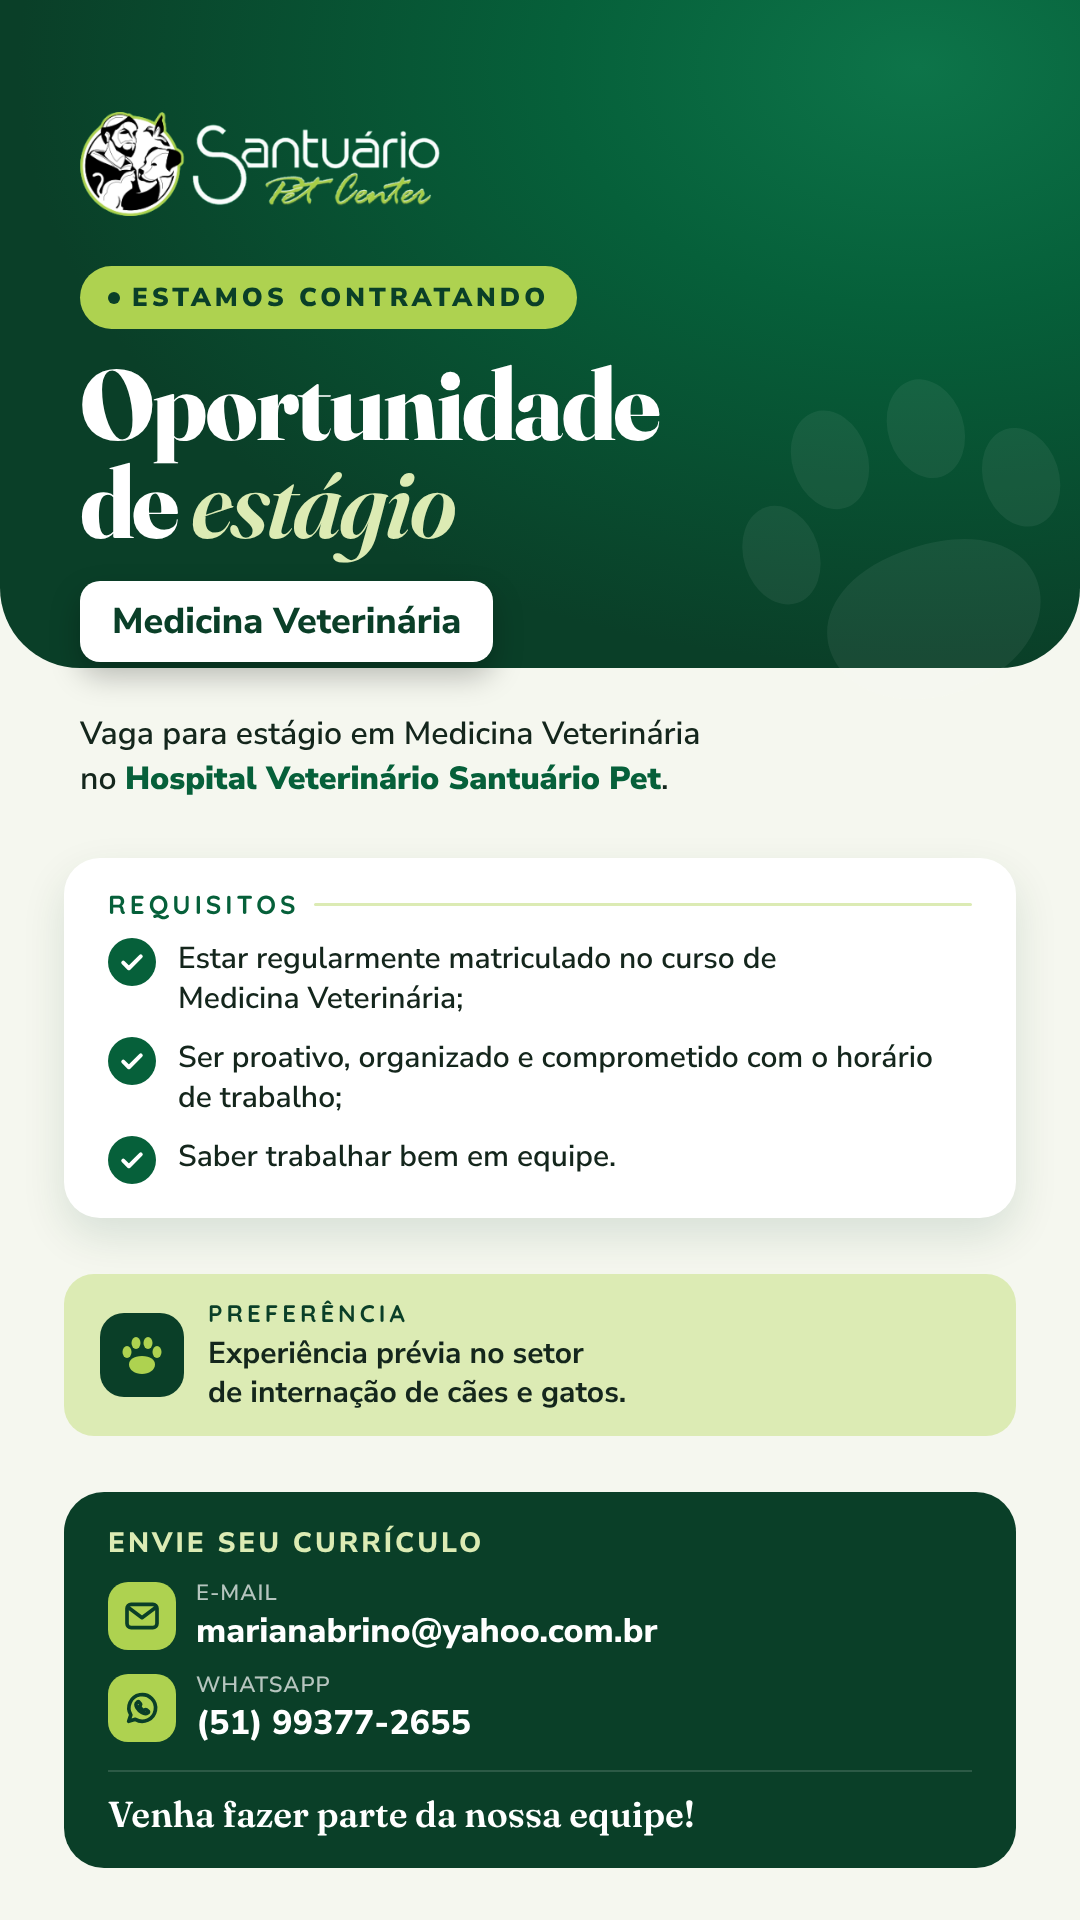
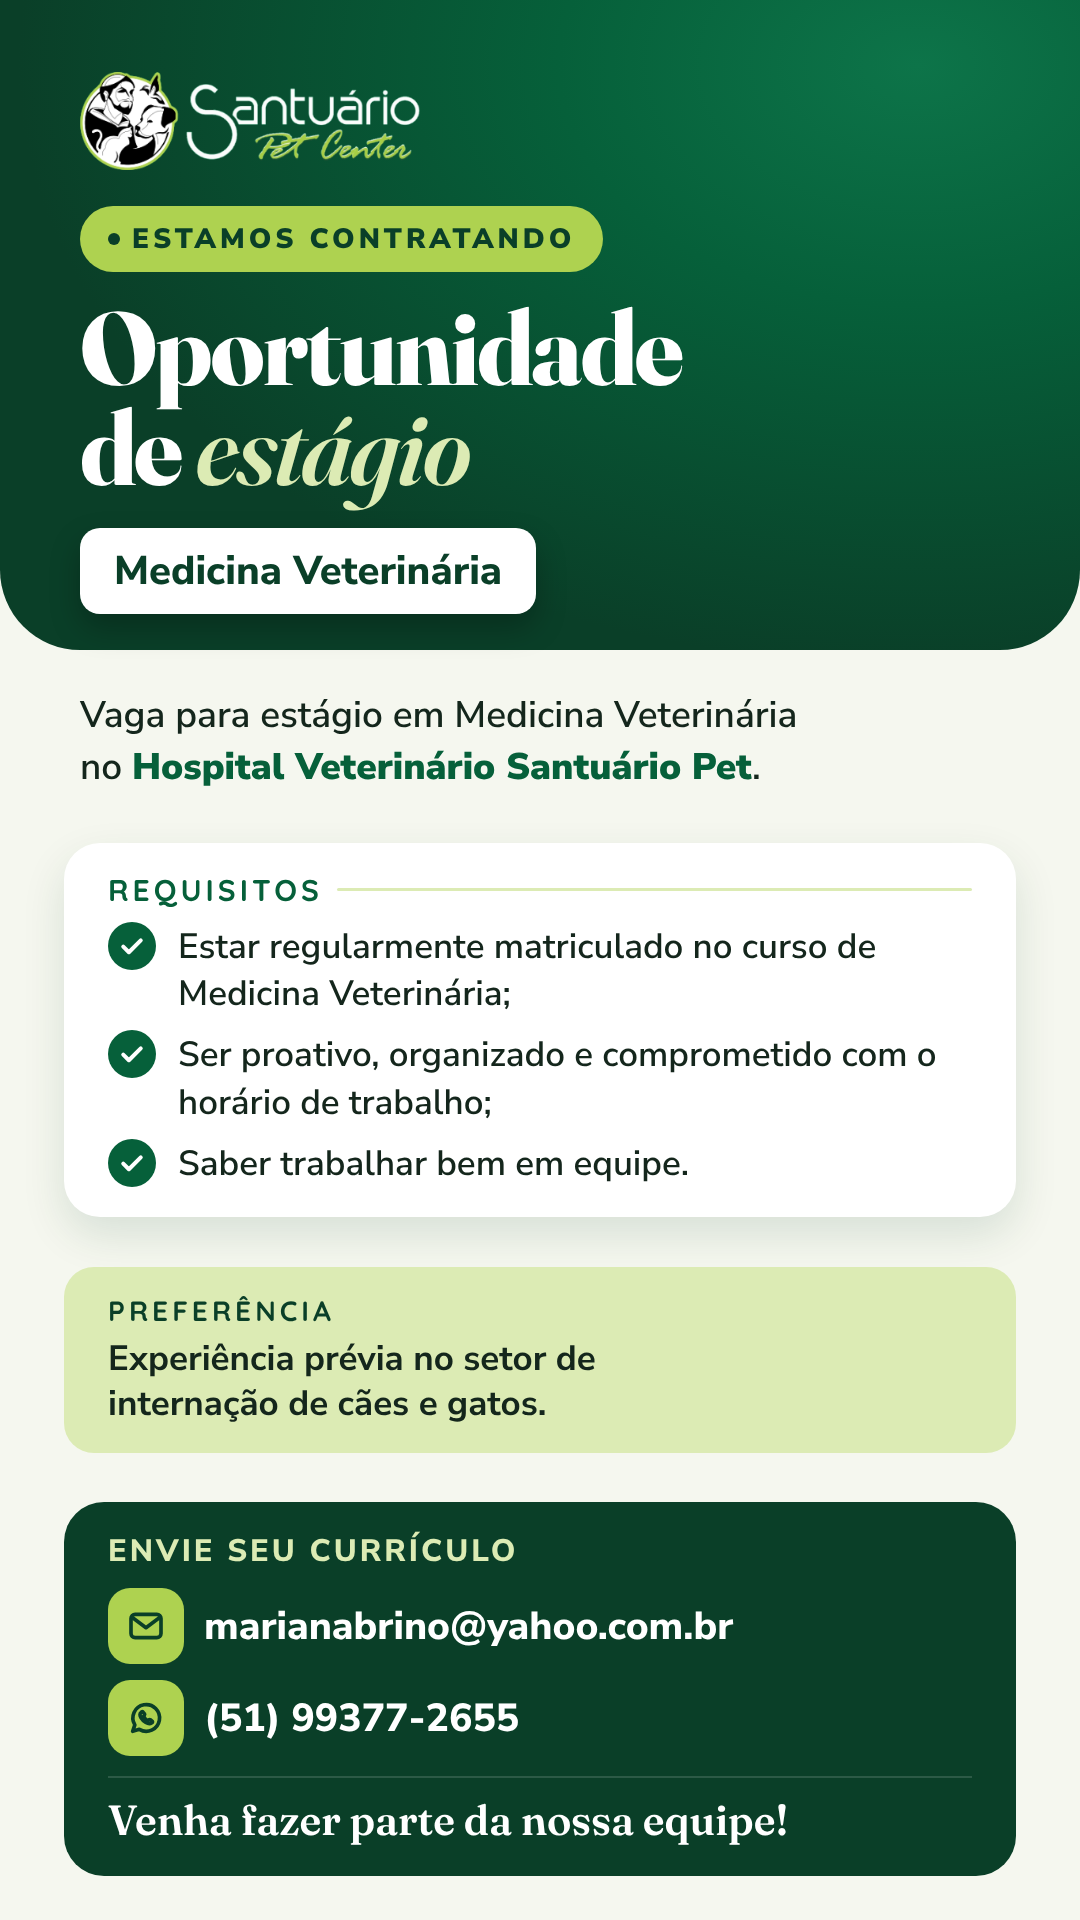
Santuário Pet: vaga de estágio sem patinhas, fontes maiores e espaçamento uniforme
Claude-Session: https://claude.ai/code/session_01Gs9A9MNex2dmEc6dmLnRAu

Changed region(s): [[0.0, 0.0312, 1.0, 0.625], [0.0611, 0.6562, 0.9472, 1.0]]

diff --git a/santuario-pet/gerar_estagio.py b/santuario-pet/gerar_estagio.py
@@ -33,33 +33,33 @@ CSS = f"""
 html,body{{width:1080px;height:1920px;overflow:hidden}}
 .s{{position:relative;width:1080px;height:1920px;overflow:hidden;background:{OFF};font-family:'Nunito Sans',sans-serif;color:{INK}}}
 .a{{position:absolute}}
-.topo{{position:absolute;left:0;right:0;top:0;height:668px;
+.topo{{position:absolute;left:0;right:0;top:0;height:650px;
   background:radial-gradient(900px 600px at 85% 10%,#0D7449 0%,{V} 40%,{VE} 100%);border-radius:0 0 80px 80px}}
-.tag{{display:inline-flex;align-items:center;gap:12px;background:{LIME};color:{VE};font-weight:900;font-size:26px;letter-spacing:4px;
+.tag{{display:inline-flex;align-items:center;gap:12px;background:{LIME};color:{VE};font-weight:900;font-size:28px;letter-spacing:4px;
   text-transform:uppercase;padding:14px 28px;border-radius:999px}}
 .tag i{{width:12px;height:12px;border-radius:50%;background:{VE}}}
-h1{{font-family:'Fraunces',serif;font-weight:800;font-size:100px;line-height:.98;letter-spacing:-2px;color:#fff;margin-top:26px}}
+h1{{font-family:'Fraunces',serif;font-weight:800;font-size:104px;line-height:.96;letter-spacing:-2px;color:#fff;margin-top:26px}}
 h1 em{{font-style:italic;font-weight:600;color:{LIME_CL}}}
-.area{{display:inline-block;margin-top:30px;background:#fff;color:{VE};font-weight:800;font-size:36px;padding:16px 32px;border-radius:20px;
+.area{{display:inline-block;margin-top:30px;background:#fff;color:{VE};font-weight:800;font-size:40px;padding:16px 34px;border-radius:20px;
   box-shadow:0 14px 30px rgba(0,0,0,.25)}}
-.intro{{text-wrap:balance;font-size:32px;line-height:1.4;font-weight:600;color:{INK}}}
+.intro{{text-wrap:balance;font-size:37px;line-height:1.4;font-weight:600;color:{INK}}}
 .intro b{{font-weight:900;color:{V}}}
-.card{{background:#fff;border-radius:36px;padding:30px 44px 34px;box-shadow:0 18px 44px rgba(10,63,40,.12)}}
-.rot{{font-family:'Quicksand',sans-serif;font-weight:700;font-size:26px;letter-spacing:4px;text-transform:uppercase;color:{V};
+.card{{background:#fff;border-radius:36px;padding:28px 44px 30px;box-shadow:0 18px 44px rgba(10,63,40,.12)}}
+.rot{{font-family:'Quicksand',sans-serif;font-weight:700;font-size:30px;letter-spacing:4px;text-transform:uppercase;color:{V};
   display:flex;align-items:center;gap:14px}}
 .rot::after{{content:"";flex:1;height:3px;border-radius:2px;background:{LIME_CL}}}
-.req{{display:flex;gap:22px;align-items:flex-start;margin-top:18px;font-size:30px;line-height:1.35;font-weight:600}}
+.req{{display:flex;gap:22px;align-items:flex-start;margin-top:14px;font-size:35px;line-height:1.35;font-weight:600}}
 .req div:last-child{{text-wrap:pretty}}
 .req .ck{{flex:none;width:48px;height:48px;border-radius:50%;background:{V};display:flex;align-items:center;justify-content:center;margin-top:-1px}}
-.pref{{display:flex;gap:24px;align-items:center;background:{LIME_CL};border-radius:30px;padding:24px 36px}}
+.pref{{display:flex;gap:24px;align-items:center;background:{LIME_CL};border-radius:30px;padding:26px 44px}}
 .pref .ic{{flex:none;width:84px;height:84px;border-radius:24px;background:{VE};display:flex;align-items:center;justify-content:center}}
-.pref b{{display:block;font-family:'Quicksand',sans-serif;font-weight:700;font-size:24px;letter-spacing:4px;text-transform:uppercase;color:{VE}}}
-.pref span{{display:block;font-size:30px;line-height:1.3;font-weight:700;color:{INK};margin-top:6px;text-wrap:balance}}
-.cta{{background:{VE};border-radius:40px;padding:32px 44px;color:#fff}}
-.cta .t{{font-weight:800;font-size:28px;letter-spacing:3px;text-transform:uppercase;color:{LIME_CL}}}
-.ct{{display:flex;align-items:center;gap:20px;margin-top:16px;font-weight:800;font-size:34px;white-space:nowrap}}
-.ct .ic{{flex:none;width:68px;height:68px;border-radius:20px;background:{LIME};display:flex;align-items:center;justify-content:center}}
-.ct small{{display:block;font-weight:600;font-size:22px;letter-spacing:1px;color:rgba(255,255,255,.7);text-transform:uppercase}}
+.pref b{{display:block;font-family:'Quicksand',sans-serif;font-weight:700;font-size:28px;letter-spacing:4px;text-transform:uppercase;color:{VE}}}
+.pref span{{display:block;font-size:35px;line-height:1.3;font-weight:700;color:{INK};margin-top:8px;text-wrap:balance}}
+.cta{{background:{VE};border-radius:40px;padding:28px 44px 30px;color:#fff}}
+.cta .t{{font-weight:800;font-size:31px;letter-spacing:3px;text-transform:uppercase;color:{LIME_CL}}}
+.ct{{display:flex;align-items:center;gap:20px;margin-top:16px;font-weight:800;font-size:39px;white-space:nowrap}}
+.ct .ic{{flex:none;width:76px;height:76px;border-radius:22px;background:{LIME};display:flex;align-items:center;justify-content:center}}
+.ct small{{display:block;font-weight:600;font-size:24px;letter-spacing:1px;color:rgba(255,255,255,.7);text-transform:uppercase}}
 """
 
 
@@ -70,27 +70,25 @@ def story():
     lista = "".join(f'<div class="req"><div class="ck">{CHECK}</div><div>{r}</div></div>' for r in reqs)
     return f"""<!doctype html><html lang="pt-BR"><head><meta charset="utf-8"><style>{CSS}</style></head><body><div class="s">
 <div class="topo"></div>
-<div class="a" style="right:-40px;top:330px;opacity:.06;transform:rotate(-18deg)">{PATA.format(s=420, c='#fff')}</div>
-<div class="a" style="left:80px;top:112px"><img src="{LOGO}" style="width:360px;display:block" alt="Santuário Pet Center"></div>
-<div class="a" style="left:80px;right:80px;top:266px">
+<div class="a" style="left:80px;top:72px"><img src="{LOGO}" style="width:340px;display:block" alt="Santuário Pet Center"></div>
+<div class="a" style="left:80px;right:80px;top:206px">
   <span class="tag"><i></i>Estamos contratando</span>
   <h1>Oportunidade<br>de <em>estágio</em></h1>
   <span class="area">Medicina Veterinária</span>
 </div>
 
-<div class="a" style="left:64px;right:64px;top:712px;bottom:52px;display:flex;flex-direction:column;justify-content:space-between">
+<div class="a" style="left:64px;right:64px;top:690px;bottom:44px;display:flex;flex-direction:column;justify-content:space-between">
   <div class="intro" style="padding:0 16px">Vaga para estágio em Medicina Veterinária no <b>Hospital Veterinário Santuário Pet</b>.</div>
   <div class="card"><div class="rot">Requisitos</div>{lista}</div>
   <div class="pref">
-    <div class="ic">{PATA.format(s=50, c=LIME)}</div>
     <div><b>Preferência</b><span>Experiência prévia no setor de internação de cães e gatos.</span></div>
   </div>
   <div class="cta">
     <div class="t">Envie seu currículo</div>
-    <div class="ct"><div class="ic">{MAIL}</div><div><small>E-mail</small>marianabrino@yahoo.com.br</div></div>
-    <div class="ct"><div class="ic">{ZAP}</div><div><small>WhatsApp</small>(51) 99377-2655</div></div>
-    <div style="margin-top:24px;padding-top:20px;border-top:2px solid rgba(255,255,255,.14);font-family:Fraunces,serif;
-      font-weight:600;font-size:36px;color:#fff">Venha fazer parte da nossa equipe!</div>
+    <div class="ct"><div class="ic">{MAIL}</div><div>marianabrino@yahoo.com.br</div></div>
+    <div class="ct"><div class="ic">{ZAP}</div><div>(51) 99377-2655</div></div>
+    <div style="margin-top:20px;padding-top:16px;border-top:2px solid rgba(255,255,255,.14);font-family:Fraunces,serif;
+      font-weight:600;font-size:42px;color:#fff">Venha fazer parte da nossa equipe!</div>
   </div>
 </div>
 </div></body></html>"""
